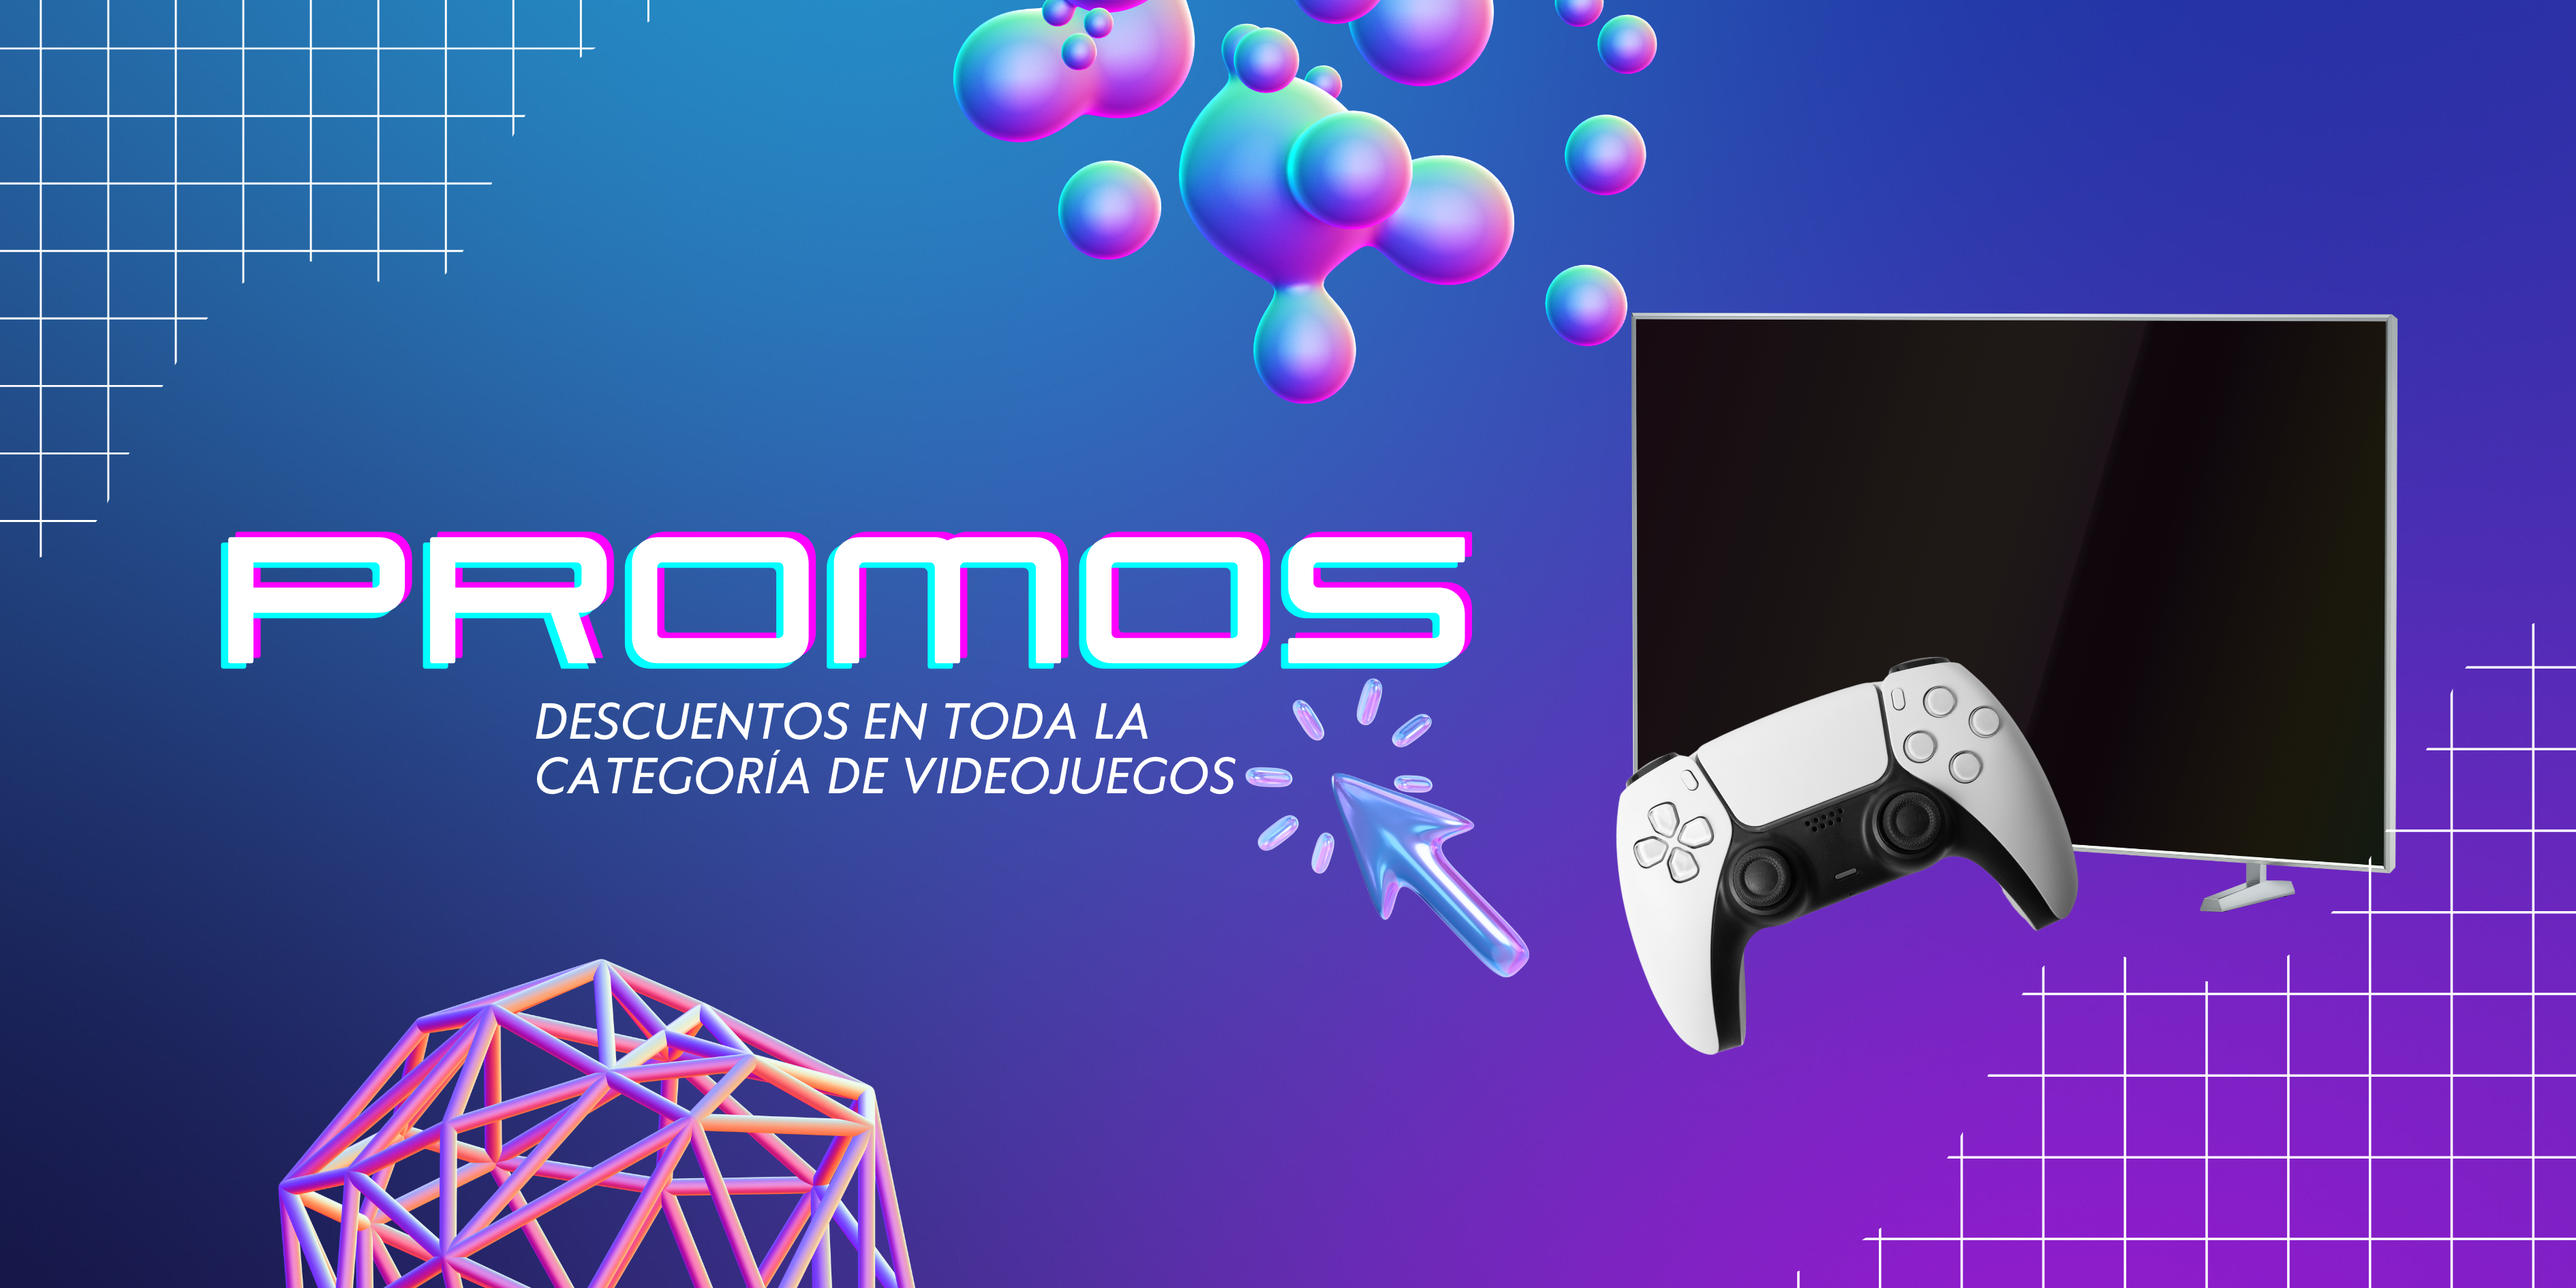
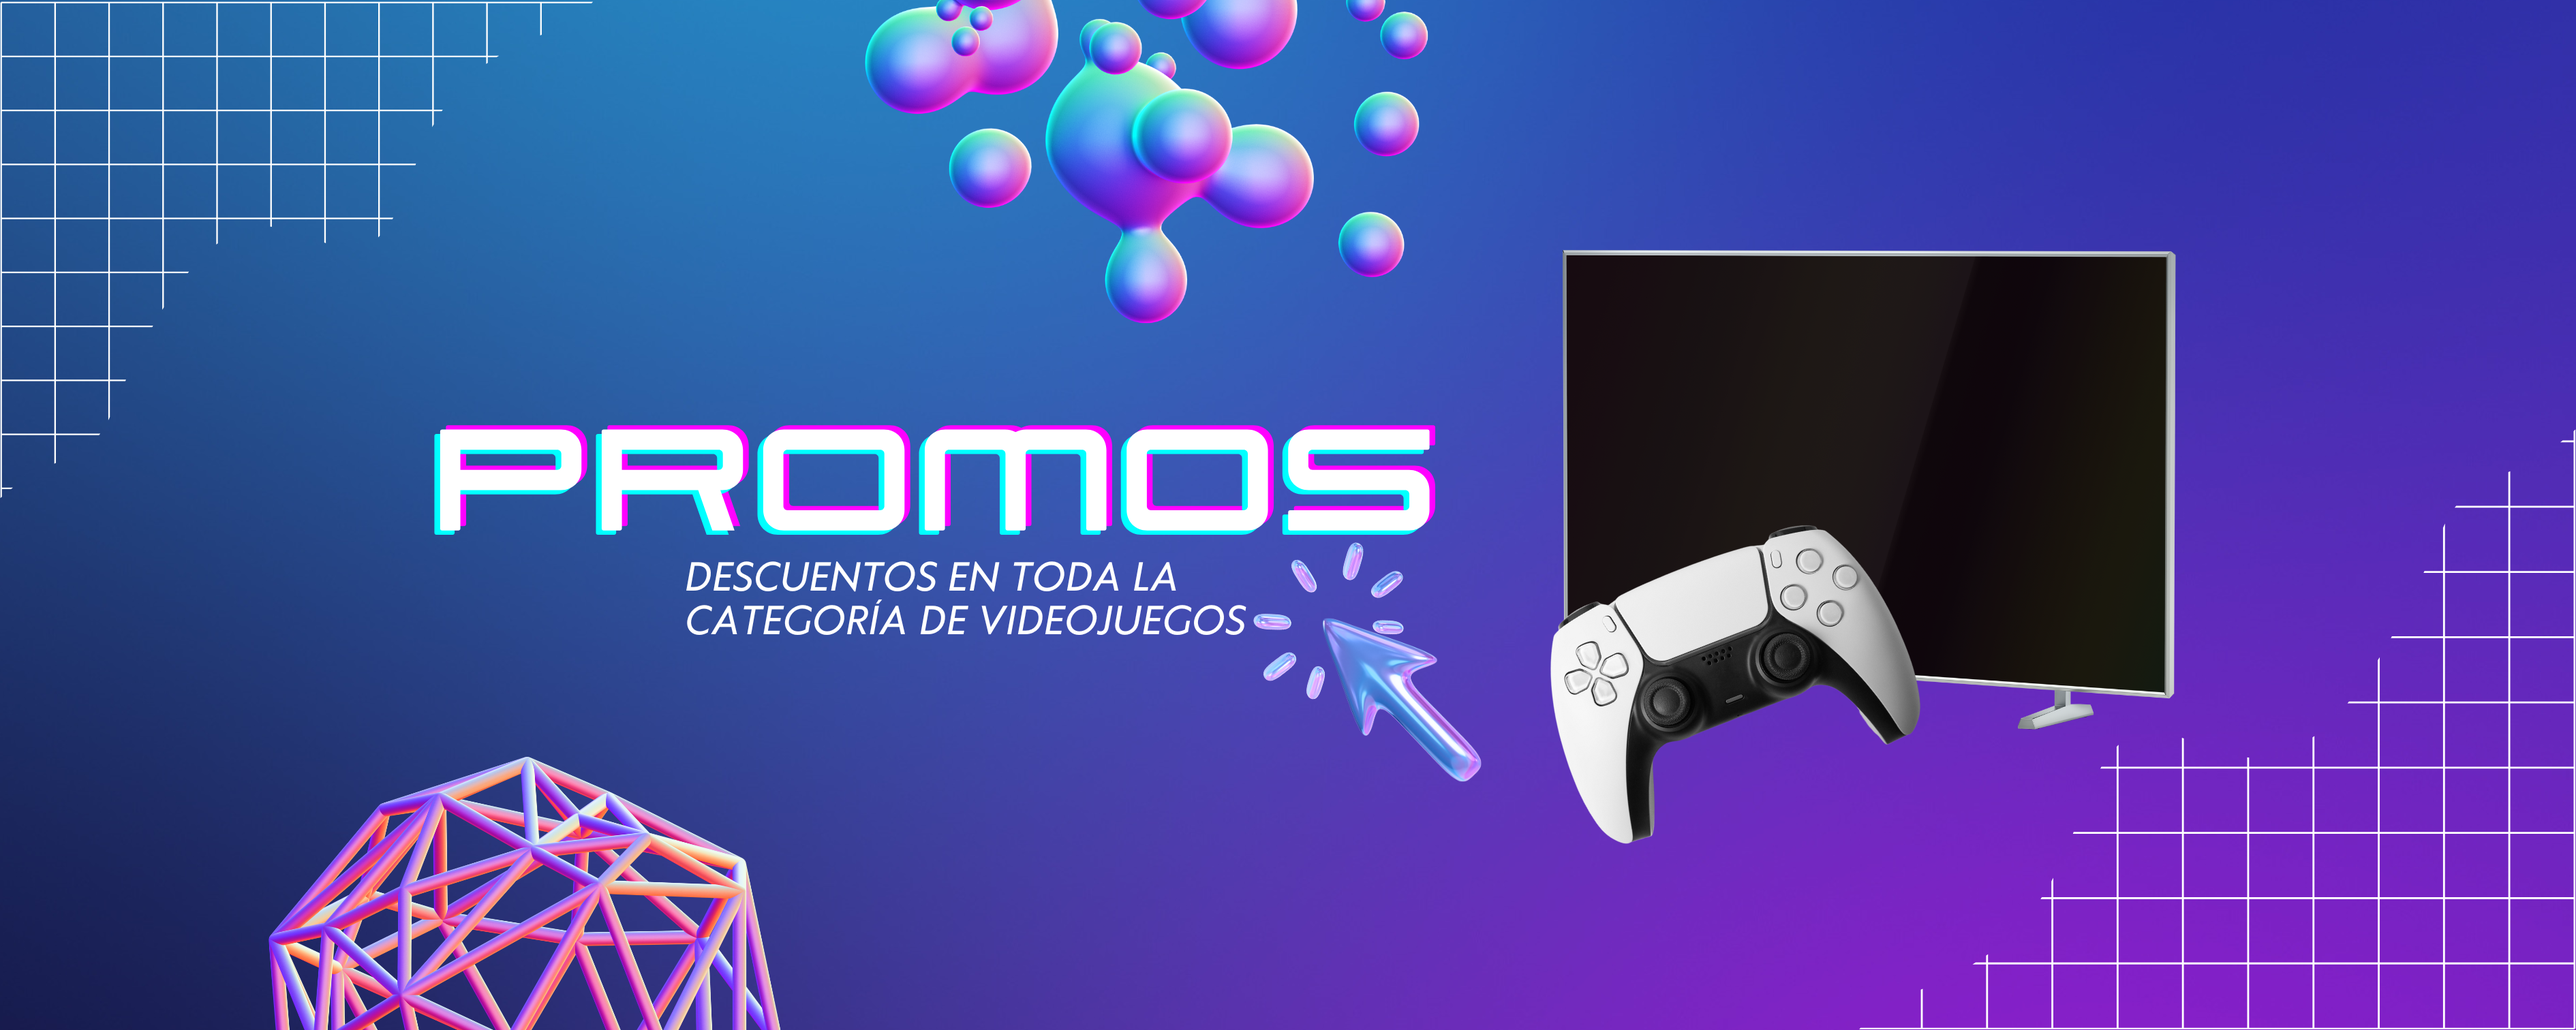
di estilos al carrusel de inicio para hacerlo responsive

Changed region(s): [[0.0624, 0.0, 1.0, 1.0], [0.0937, 0.7149, 0.3746, 1.0], [0.0, 0.0, 0.2185, 0.4352]]

diff --git a/src/components/pages/inicio/CarruselOfertas.jsx b/src/components/pages/inicio/CarruselOfertas.jsx
@@ -8,11 +8,11 @@ import teclado from "../../../assets/teclado.mp4"
 
 const CarruselOferta = () => {
     return (
-        <Carousel className="d-none d-md-block my-4"> {/* Agregué my-4 para margen vertical */}
+        <Carousel className="d-none d-md-block my-4">
             
             {/* Slide 1 */}
             <CarouselItem>
-                <div className="contenedor-videos px-3"> {/* px-3 da un margen a los costados del carrusel */}
+                <div className="contenedor-videos px-3"> 
                     <video autoPlay muted loop playsInline className="imagen-ofertas" src={play} title="Oferta Play" />
                     <video autoPlay muted loop playsInline className="imagen-ofertas" src={juegoPlay} title="Oferta Juego" />
                     <video autoPlay muted loop playsInline className="imagen-ofertas" src={joystick} title="Oferta Joystick" />

diff --git a/src/styles/inicio.css b/src/styles/inicio.css
@@ -1,7 +1,8 @@
 .imagen-Carousel {
   width: 100%;
-  height: 450px;
+  height: 500px;
   object-fit: cover;
+  object-position: center;
 }
 
 .carousel-control-prev-icon,
@@ -51,5 +52,19 @@
 @media (max-width: 992px) {
   .imagen-ofertas {
     height: 200px;
+  }
+}
+
+@media (781px<=width<=992px) {
+  .imagen-Carousel {
+    height: 350px; 
+    object-fit: cover;
+  }
+}
+
+@media (width<=781px) {
+  .imagen-Carousel {
+    height: 150px; 
+    object-fit: cover;
   }
 }
